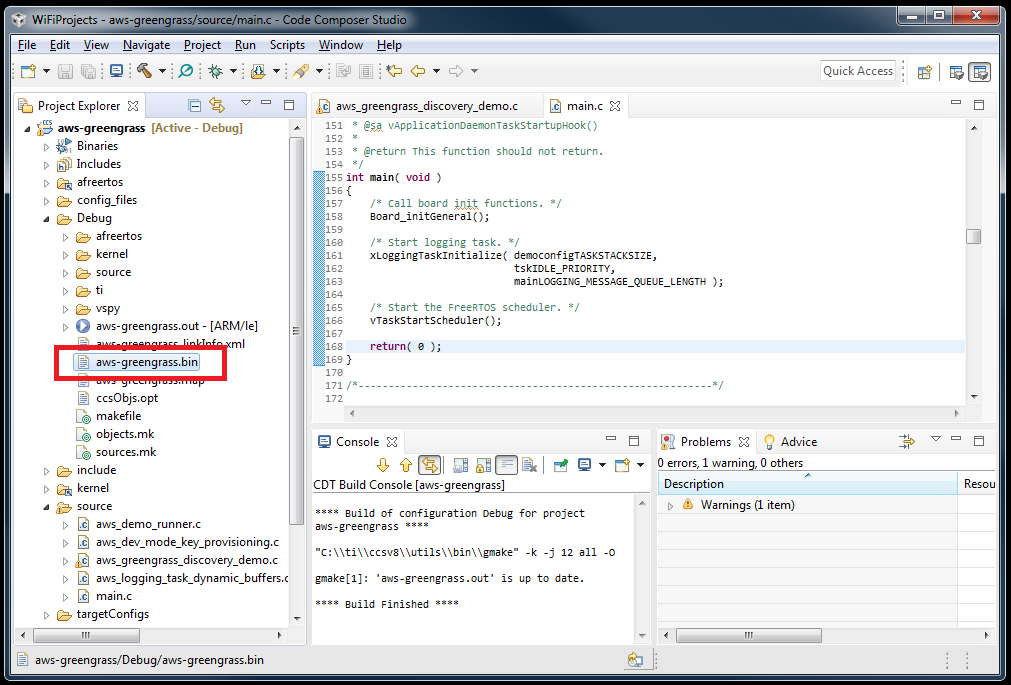
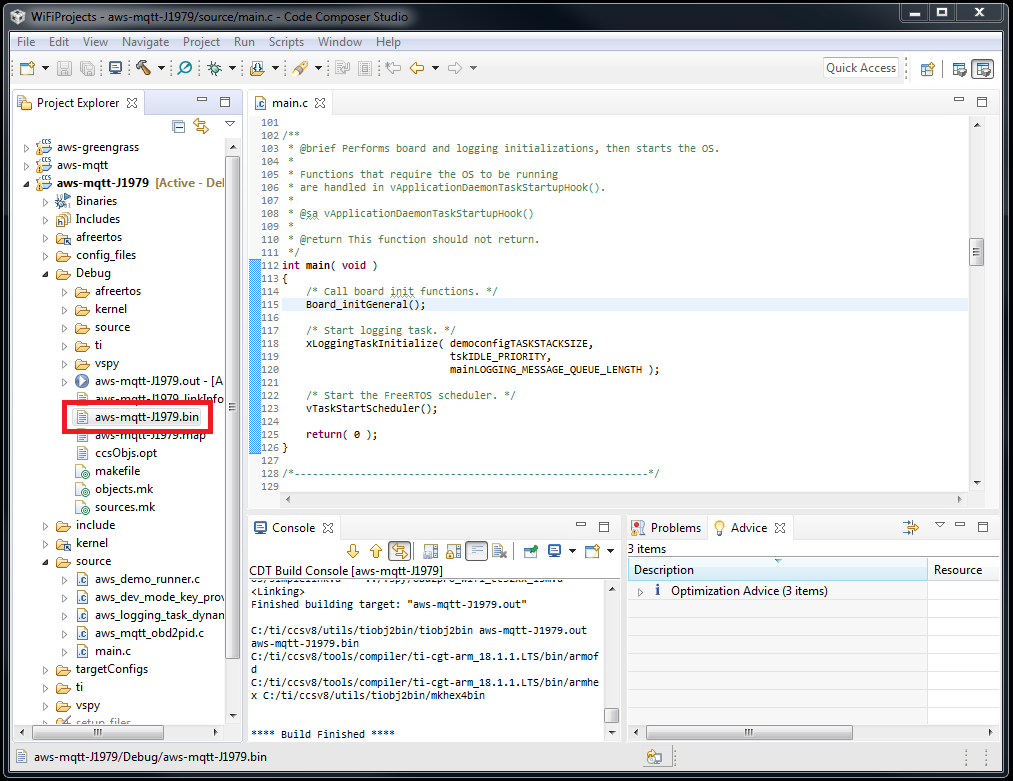
aws-mqtt-j1979 sample doc update

Changed region(s): [[0.0, 0.0, 1.0, 1.0], [0.9199, 0.8277, 0.9505, 0.8584], [0.9199, 0.5825, 0.9505, 0.6131]]

diff --git a/samples/aws-mqtt-J1979/Readme.md b/samples/aws-mqtt-J1979/Readme.md
@@ -99,7 +99,7 @@ The **aws_iot_config** file is a text file that contains credentials and setting
 
 ### Build the Application
 
-1. Open CCS and import the Greengrass sample project from <*SDK_PATH*>/samples/aws-greengrass. Build the project.
+1. Open CCS and import the AWS J1979 sample project from <*SDK_PATH*>/samples/aws-mqtt-J1979. Build the project.
 
 	![alt text](../../docs/neoobd2_pro/images/55-CCS_Build_Project.PNG "Import and Build Project in CCS")
 
